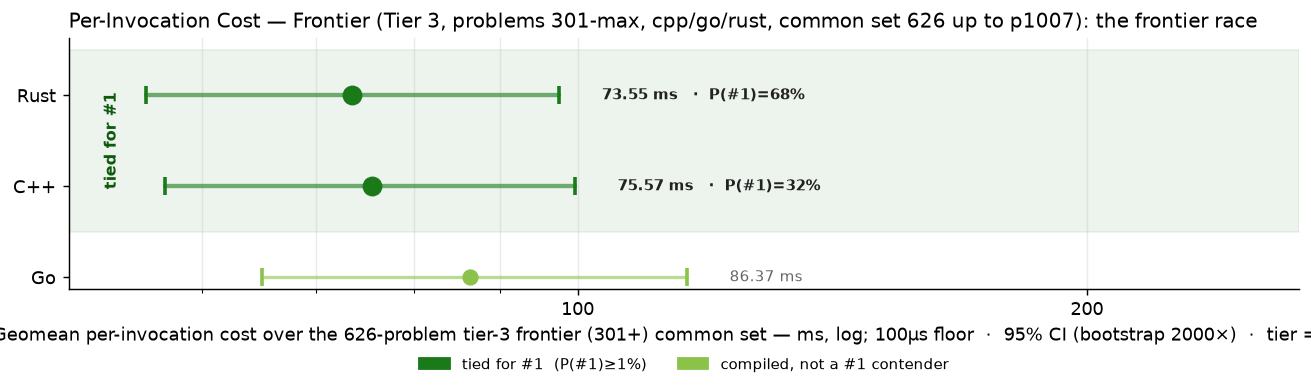
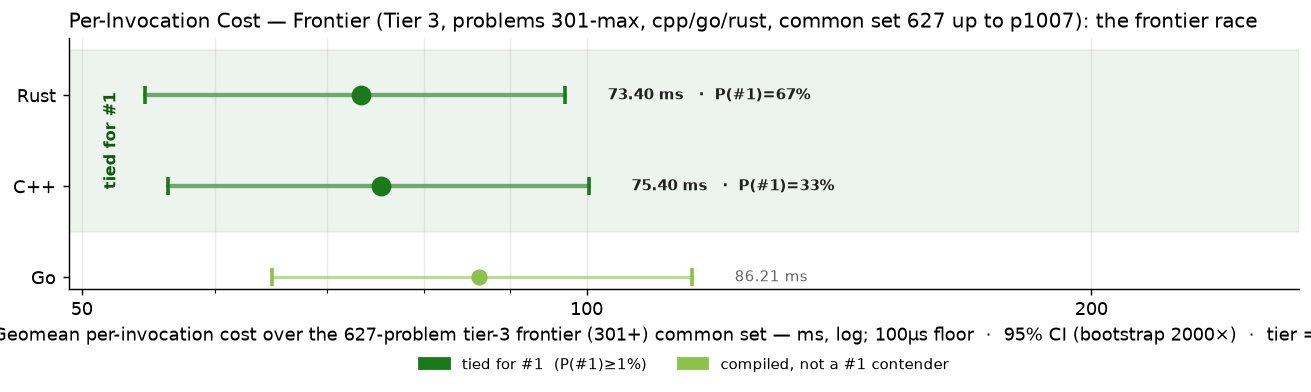
cpp p0690

diff --git a/RESULTS.md b/RESULTS.md
@@ -1,6 +1,6 @@
 # Project Euler — Cross-Language Benchmarks
 
-> **Scope: 4521 in-scope cells across 1007 problems × tiered languages — 4362 measured (96.5% coverage).**
+> **Scope: 4521 in-scope cells across 1007 problems × tiered languages — 4363 measured (96.5% coverage).**
 > The cross-language ranking below is computed over the **200-problem common set** (problems in 1-200 where every language has a passing measurement) — the apples-to-apples Foundation comparison surface.  Per-tier rankings and coverage detail appear further below.
 > Growing carefully — each new problem and language is audited for state-leak
 > safety, verified for answer correctness, and added only when it cleanly fits the
@@ -70,15 +70,15 @@ Same scatter as the Foundation chart, restricted to the tier-2 active languages 
 
 The frontier verification trio — C++, Go, Rust — on problems above 300. 3-way cross-language agreement is the verification protocol (strictly stronger than 2-way; see JOURNEY.md "Tier Reframing" episode for the p254 lesson that motivated it). Python and Zig are explicitly out of this tier — python's wall cost makes it impractical at level 5+, and zig's role caps at Tier 2.
 
-### Per-Invocation Cost (Common Set, 626 of ≤707 problems in scope)
+### Per-Invocation Cost (Common Set, 627 of ≤707 problems in scope)
 
 ![Per-Invocation Cost — Tier 3](charts/per_iter_total_tier3.png)
 
-| Rank | Language | Geomean (626-problem common set) | Total (sum) | Lines of code | vs Fastest |
+| Rank | Language | Geomean (627-problem common set) | Total (sum) | Lines of code | vs Fastest |
 |------|----------|--------------------:|------------:|--------------:|-----------:|
-| 1 | **Rust** | 73.55 ms | 1707.80 s | 121,932 | 1.00× |
-| 2 | **C++** | 75.57 ms | 1831.23 s | 90,351 | 1.03× |
-| 3 | **Go** | 86.37 ms | 2103.80 s | 114,190 | 1.17× |
+| 1 | **Rust** | 73.40 ms | 1707.82 s | 122,398 | 1.00× |
+| 2 | **C++** | 75.40 ms | 1831.25 s | 90,618 | 1.03× |
+| 3 | **Go** | 86.21 ms | 2103.83 s | 114,378 | 1.17× |
 
 ### Speed vs Code Size
 
@@ -264,7 +264,7 @@ table never silently mixes versions (METHODOLOGY.md §4).  Current state of the
 |----------|-----------|------:|---------------|
 | **ARM64** | `Apple clang version 21.0.0 (clang-2100.1.1.101)` | 200 | 2026-07-30 |
 | **C** | `Apple clang version 21.0.0 (clang-2100.1.1.101)` | 200 | 2026-07-30 |
-| **C++** | `Apple clang version 21.0.0 (clang-2100.1.1.101)` | 931 | 2026-09-04 |
+| **C++** | `Apple clang version 21.0.0 (clang-2100.1.1.101)` | 932 | 2026-09-04 |
 | **C#** | `10.0.101` | 200 | 2026-07-30 |
 | **Go** | `go version go1.26.5 darwin/arm64` | 929 | 2026-09-04 |
 | **Java** | `openjdk version "21.0.2" 2024-01-16 LTS` | 200 | 2026-07-30 |

diff --git a/per_problem/per_problem_0601-0700.md b/per_problem/per_problem_0601-0700.md
@@ -97,7 +97,7 @@ in tier-1 display order (native → managed → interpreted).
 | **p0687** | 48.07 ms | 1.15 ms | 1.34 ms |
 | **p0688** | 884.68 ms | 926.39 ms | 1.12 s |
 | **p0689** | 24.72 ms | 26.33 ms | 2.69 ms |
-| **p0690** | — | 20.38 ms | 27.50 ms |
+| **p0690** | 17.89 ms | 20.38 ms | 27.50 ms |
 | **p0691** | 342.60 ms | 350.24 ms | 415.42 ms |
 | **p0692** | 32.0 µs | 28.5 µs | 28.7 µs |
 | **p0693** | — | — | — |
